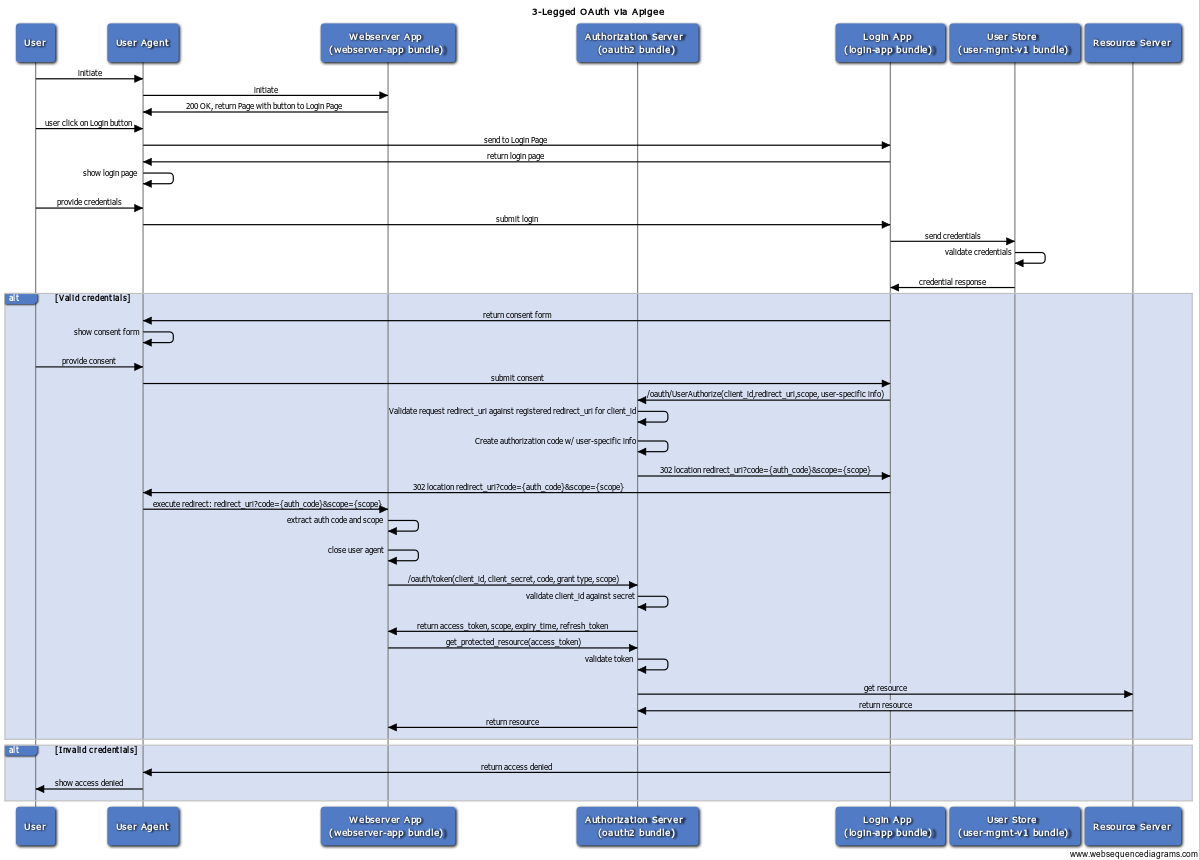
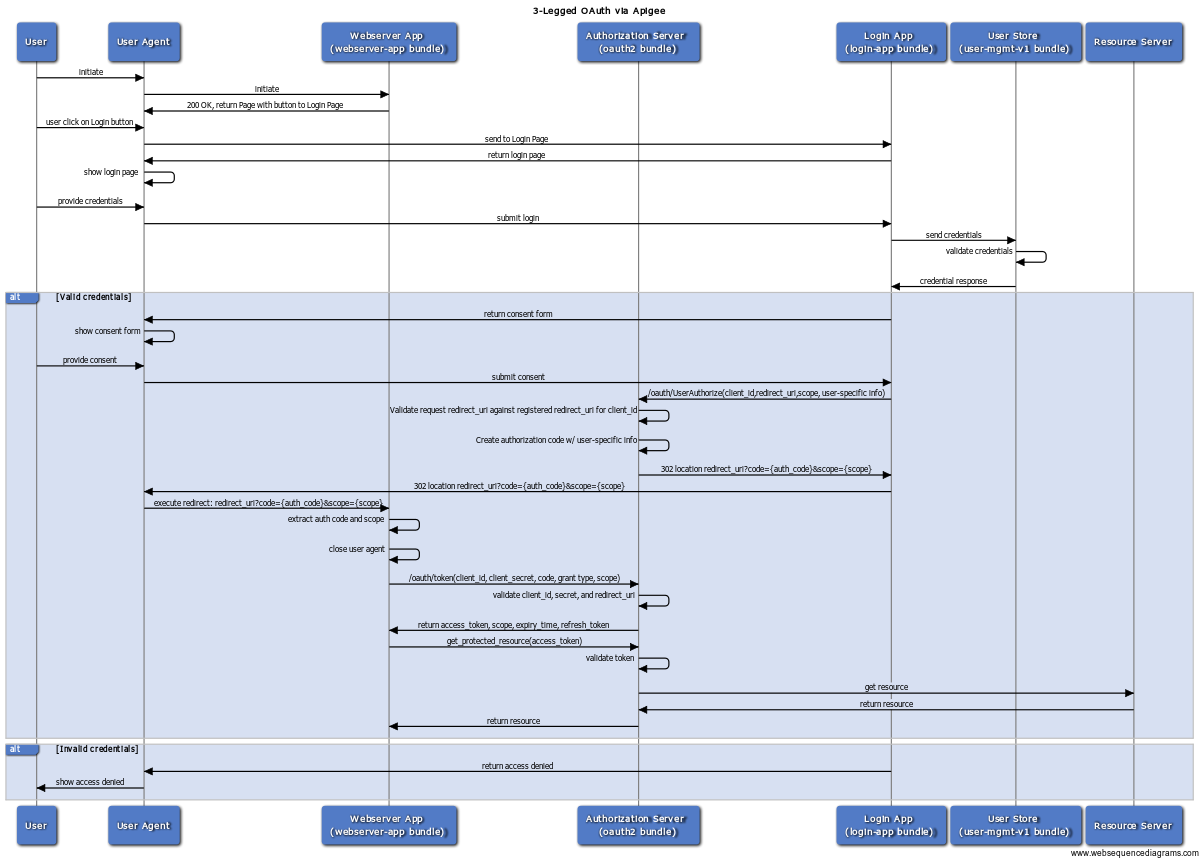
automatically pull app name from verifyAPIKey.  Update WSD to include redirect_uri validation

diff --git a/sample-proxies/oauth-advanced/login-app/apiproxy/resources/node/routes/login.js b/sample-proxies/oauth-advanced/login-app/apiproxy/resources/node/routes/login.js
@@ -2,6 +2,7 @@ var validator = require('validator').Validator;
 var https = require('https');
 var utils = require('../lib/utils.js');
 var config = require('../config/config.js');
+var apigeeLib = require('apigee-access');
 
 exports.get = function(req, res){
 
@@ -80,11 +81,11 @@ console.log("authUrl: " + authUrl);
 	  	  	var client_id = req.query.apikey;
 	  	  	var scope  = req.query.scope;
 	  	  	var state  = req.query.state;
-	  	  	var appName = req.query.app;
+	  	  	var appName = apigeeLib.getVariable(req, 'verifyapikey.VerifyAPIKey.developer.app.name'); //**CHANGE THIS
 			var redirect_uri = req.query.redirect_uri;
 			var basePath = utils.getBasePath(req);
 
-	  	  	if (auth_res.statusCode == 200){ //both successful and unsuccessful login returns 200
+	  	  	if (auth_res.statusCode == 200){ // successful login returns 200
 
 				//dynamically obtain the host and path for redirection to consent page
 				var host = utils.getHost(req);
@@ -111,9 +112,11 @@ console.log("authUrl: " + authUrl);
   	  				// Store the username in the session for later use
   	  				req.session.user = username;
 
-		  	  		res.statusCode = 302;
-		  	  		res.header('Location', url);
-					console.log ('Redirecting to: ' + url);
+					// Store the username in the session for later use
+					    req.session.user = username;
+					    res.statusCode = 302;
+					res.header('Location', url);
+
 
   	  			}
 
